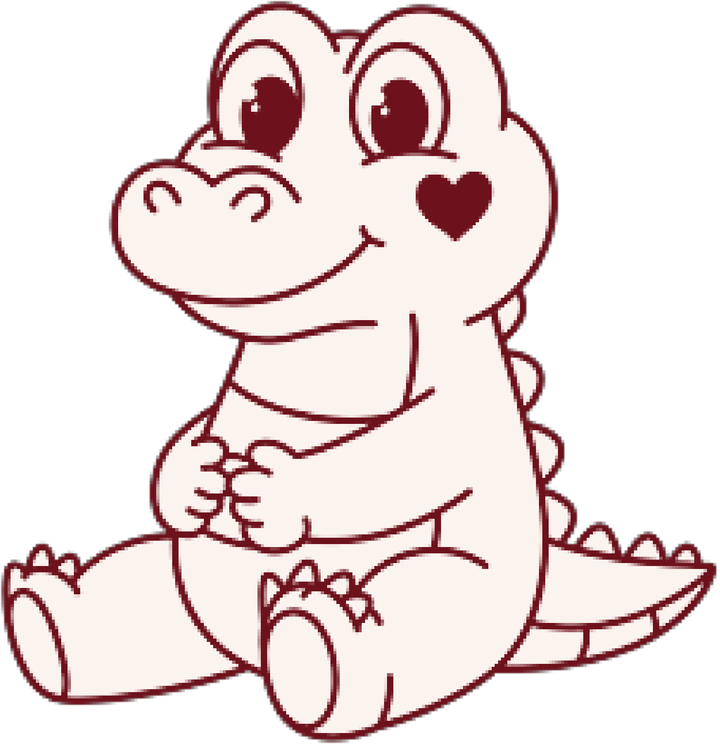
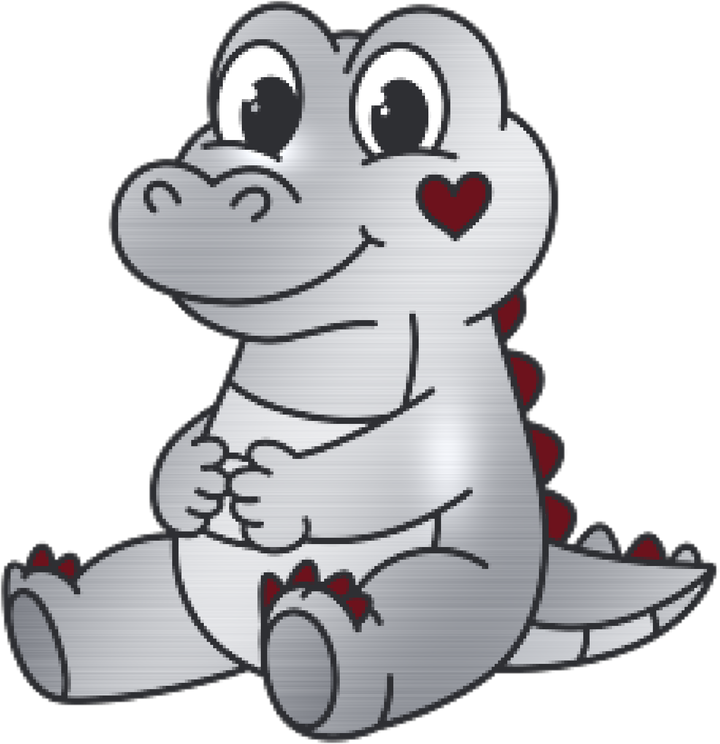
Update mascotte image alt text for improved description clarity

diff --git a/index.html b/index.html
@@ -67,7 +67,7 @@
         <h2>De kaart</h2>
         <p>Specialty coffee by Crossroast, huisgemaakte ice tea en verse pastries. Met een <span class="heart" aria-hidden="true">♥</span><span class="sr-only">hartje</span> zijn favorieten van het huis.</p>
               </div>
-      <img class="mascotte" src="images/mascotte.png" alt="De mascotte van club Coco: een lachende babykrokodil met een hartje op de wang" loading="lazy">
+      <img class="mascotte" src="images/mascotte.png" alt="De mascotte van club Coco: een lachende zilveren babykrokodil met een rood hartje op de wang" loading="lazy">
     </div>
 
         <div class="menu-photos">

diff --git a/index.php b/index.php
@@ -108,7 +108,7 @@ $vandaag    = (int) date('w');
           <p class="pastry-week"><b>Pastry van de week</b> <?= h($pastry) ?></p>
         <?php endif; ?>
       </div>
-      <img class="mascotte" src="images/mascotte.png" alt="De mascotte van club Coco: een lachende babykrokodil met een hartje op de wang" loading="lazy">
+      <img class="mascotte" src="images/mascotte.png" alt="De mascotte van club Coco: een lachende zilveren babykrokodil met een rood hartje op de wang" loading="lazy">
     </div>
 
     <?php if ($fotosKaart): ?>
